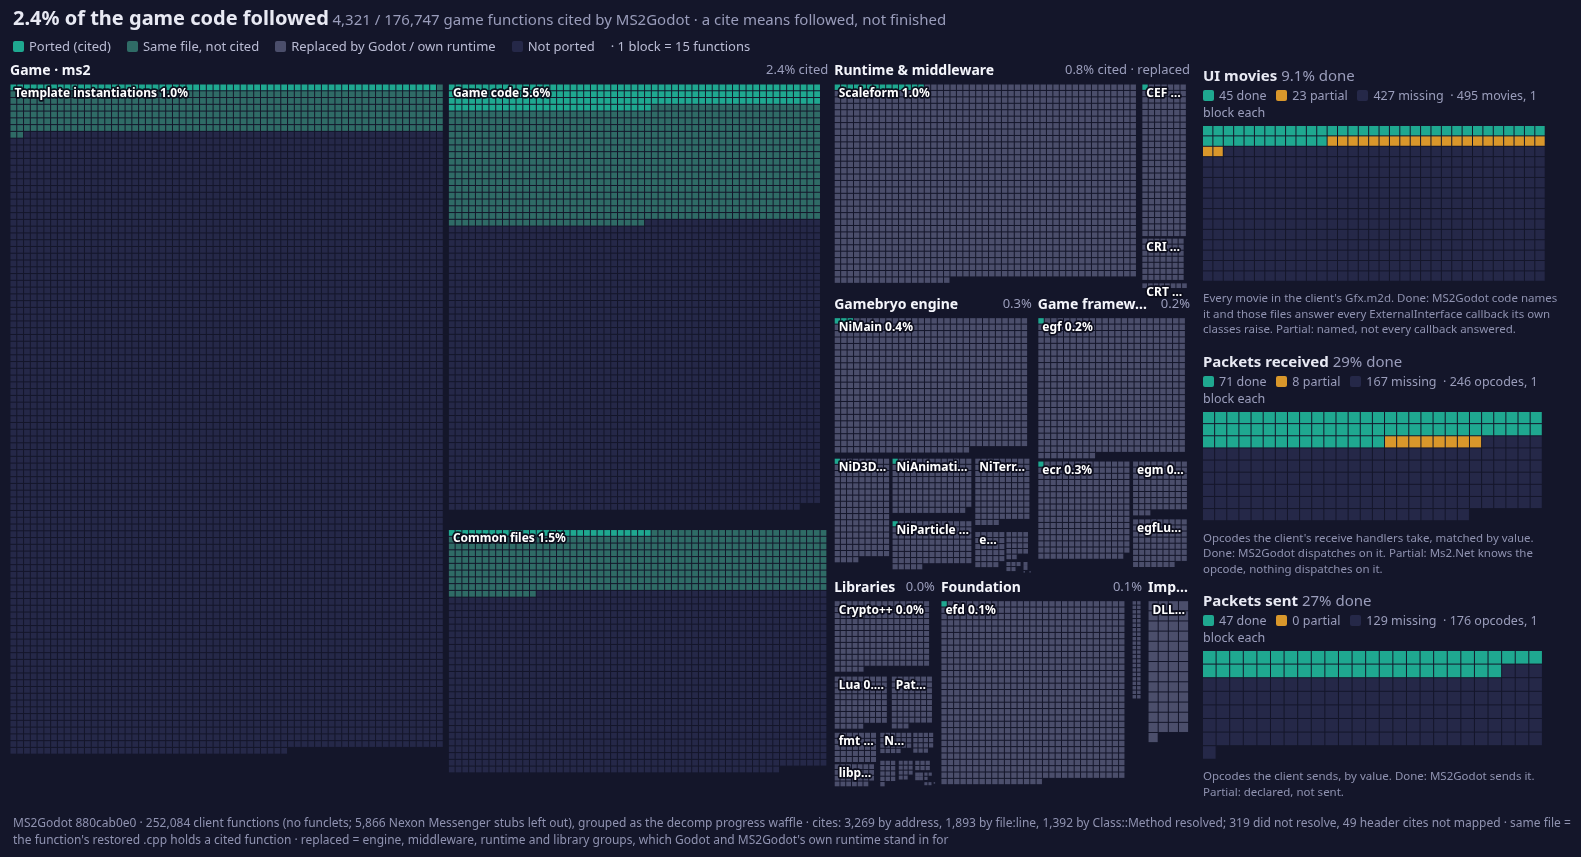
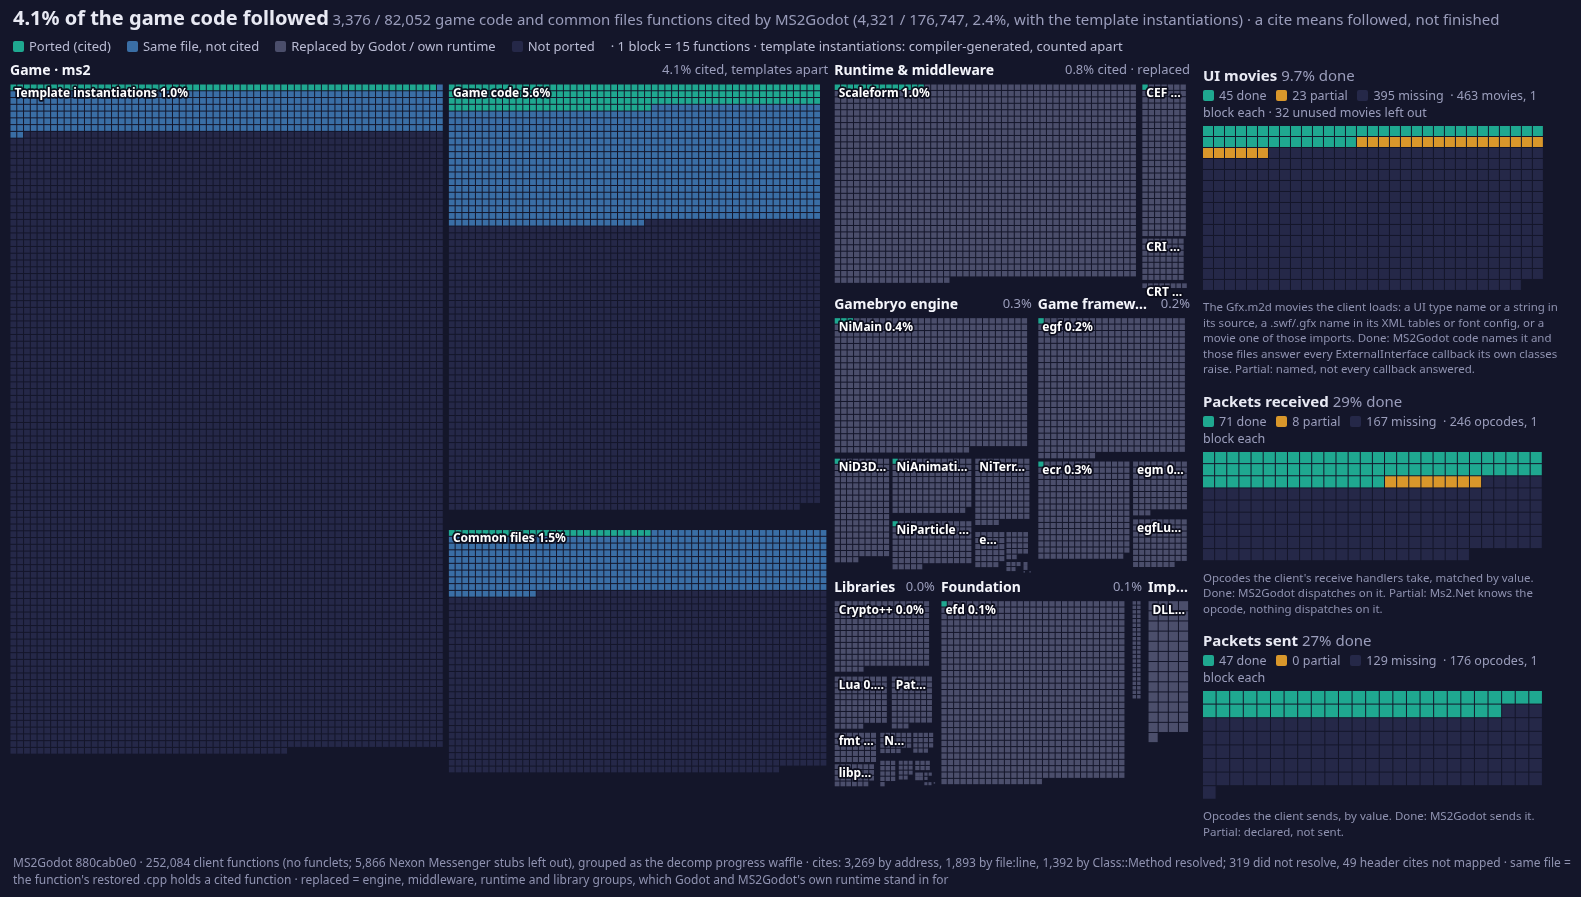
README: progress headline without template instantiations; only the UI movies the client loads
The headline counts the game code and common files functions. The template instantiations are
compiler-generated, so they are counted apart, and the figure with them is in the sub-line. The UI movie
tile counts the Gfx.m2d movies the client loads (dialog type names, source strings, XML and font config
names, and movies those name), with the unused ones as a count. Same-file blocks are blue.

Changed region(s): [[0.0, 0.0, 0.9918, 1.0]]

diff --git a/README.md b/README.md
@@ -20,11 +20,17 @@ from the code after each merge with no hand marks.
   not cited, in a source file where another function is. The engine, middleware, runtime and library groups
   (Gamebryo, Scaleform, CRI, CEF, PhysX, the C runtime, Lua and the others) are *replaced*: Godot and MS2Godot's
   own runtime stand in for them, and a function there that is cited still shows as ported. The headline is ported
-  game functions over all game functions. The footer gives the cites of each kind and how many did not resolve.
-- UI movies: every movie in the client's `Gfx.m2d`. A movie's callbacks are the `ExternalInterface.call` names its
-  own classes raise (the shared library classes, the ones the small `uihpbar` movie also defines, such as the window base, are left out). *Done*: the movie's
-  name is a string in MS2Godot's code, and those files (with the controller base) name every callback, compared
-  without case as the client compares them. *Partial*: named, but not every callback is. *Missing*: never named.
+  functions over the game code and common files functions; the template instantiations are compiler-generated, so
+  they are counted apart with their own share, and the figure with them is in the sub-line. The footer gives the
+  cites of each kind and how many did not resolve.
+- UI movies: the movies of the client's `Gfx.m2d` that the client loads: `UI` + a dialog type name of the restored
+  source (a formatted name such as `DamageFont_{0}` covers every movie it can make), a string in the source that
+  names the movie, a `.swf`/`.gfx` name in the XML tables or the font config, or a movie that one of those names
+  inside its own bytes. The other movies are shown as an unused count and left out. A movie's callbacks are the
+  `ExternalInterface.call` names its own classes raise (the shared library classes, the ones the small `uihpbar`
+  movie also defines, such as the window base, are left out). *Done*: the movie's name is a string in MS2Godot's
+  code, and those files (with the controller base) name every callback, compared without case as the client
+  compares them. *Partial*: named, but not every callback is. *Missing*: never named.
 - Packets: the opcodes the client receives and sends (its `RecvOp` and `SendOp` uses), matched by value to
   `Ms2.Net`'s `Inbound` and `Outbound` tables. Received: *done* when MS2Godot dispatches on it, *partial* when the
   table has it and nothing dispatches on it. Sent: *done* when MS2Godot sends it, *partial* when only the table has
